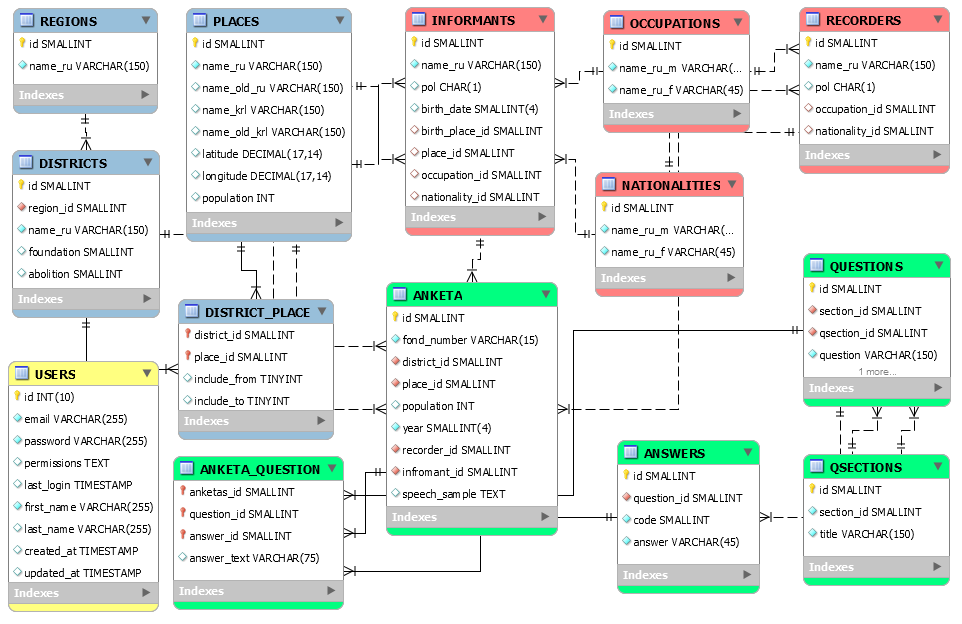
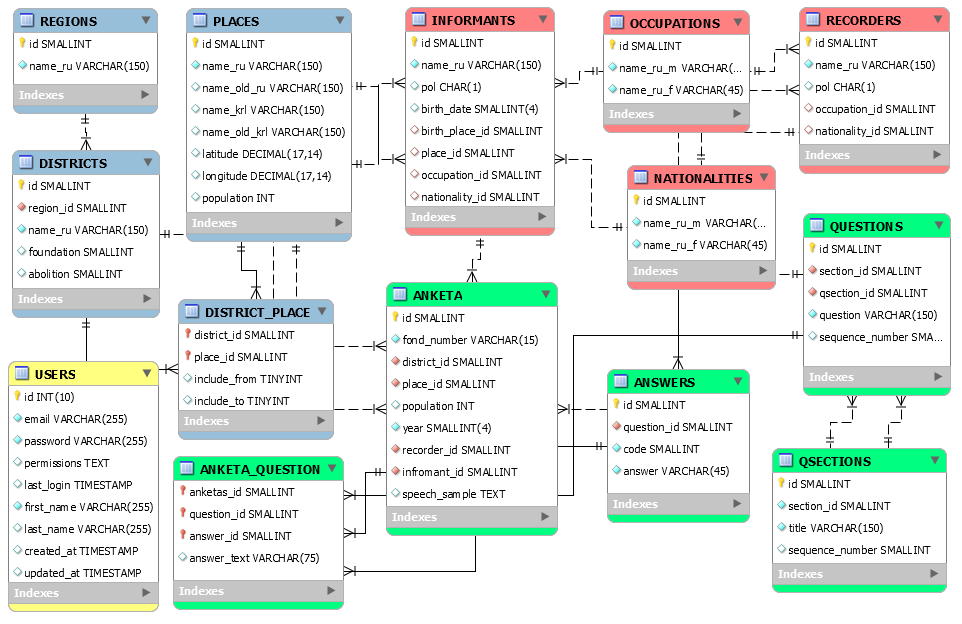
add_sequence_number_to_qsections

Changed region(s): [[0.6237, 0.5785, 0.9979, 0.9744], [0.5925, 0.2436, 0.9979, 0.6699]]

diff --git a/database/migrations/2020_11_10_094809_add_sequence_number_to_qsections.php b/database/migrations/2020_11_10_094809_add_sequence_number_to_qsections.php
@@ -1,0 +1,32 @@
+<?php
+
+use Illuminate\Database\Migrations\Migration;
+use Illuminate\Database\Schema\Blueprint;
+use Illuminate\Support\Facades\Schema;
+
+class AddSequenceNumberToQsections extends Migration
+{
+    /**
+     * Run the migrations.
+     *
+     * @return void
+     */
+    public function up()
+    {
+        Schema::table('qsections', function (Blueprint $table) {
+            $table->smallInteger('sequence_number');
+        });
+    }
+
+    /**
+     * Reverse the migrations.
+     *
+     * @return void
+     */
+    public function down()
+    {
+        Schema::table('qsections', function (Blueprint $table) {
+            $table->dropColumn('sequence_number');
+        });
+    }
+}
